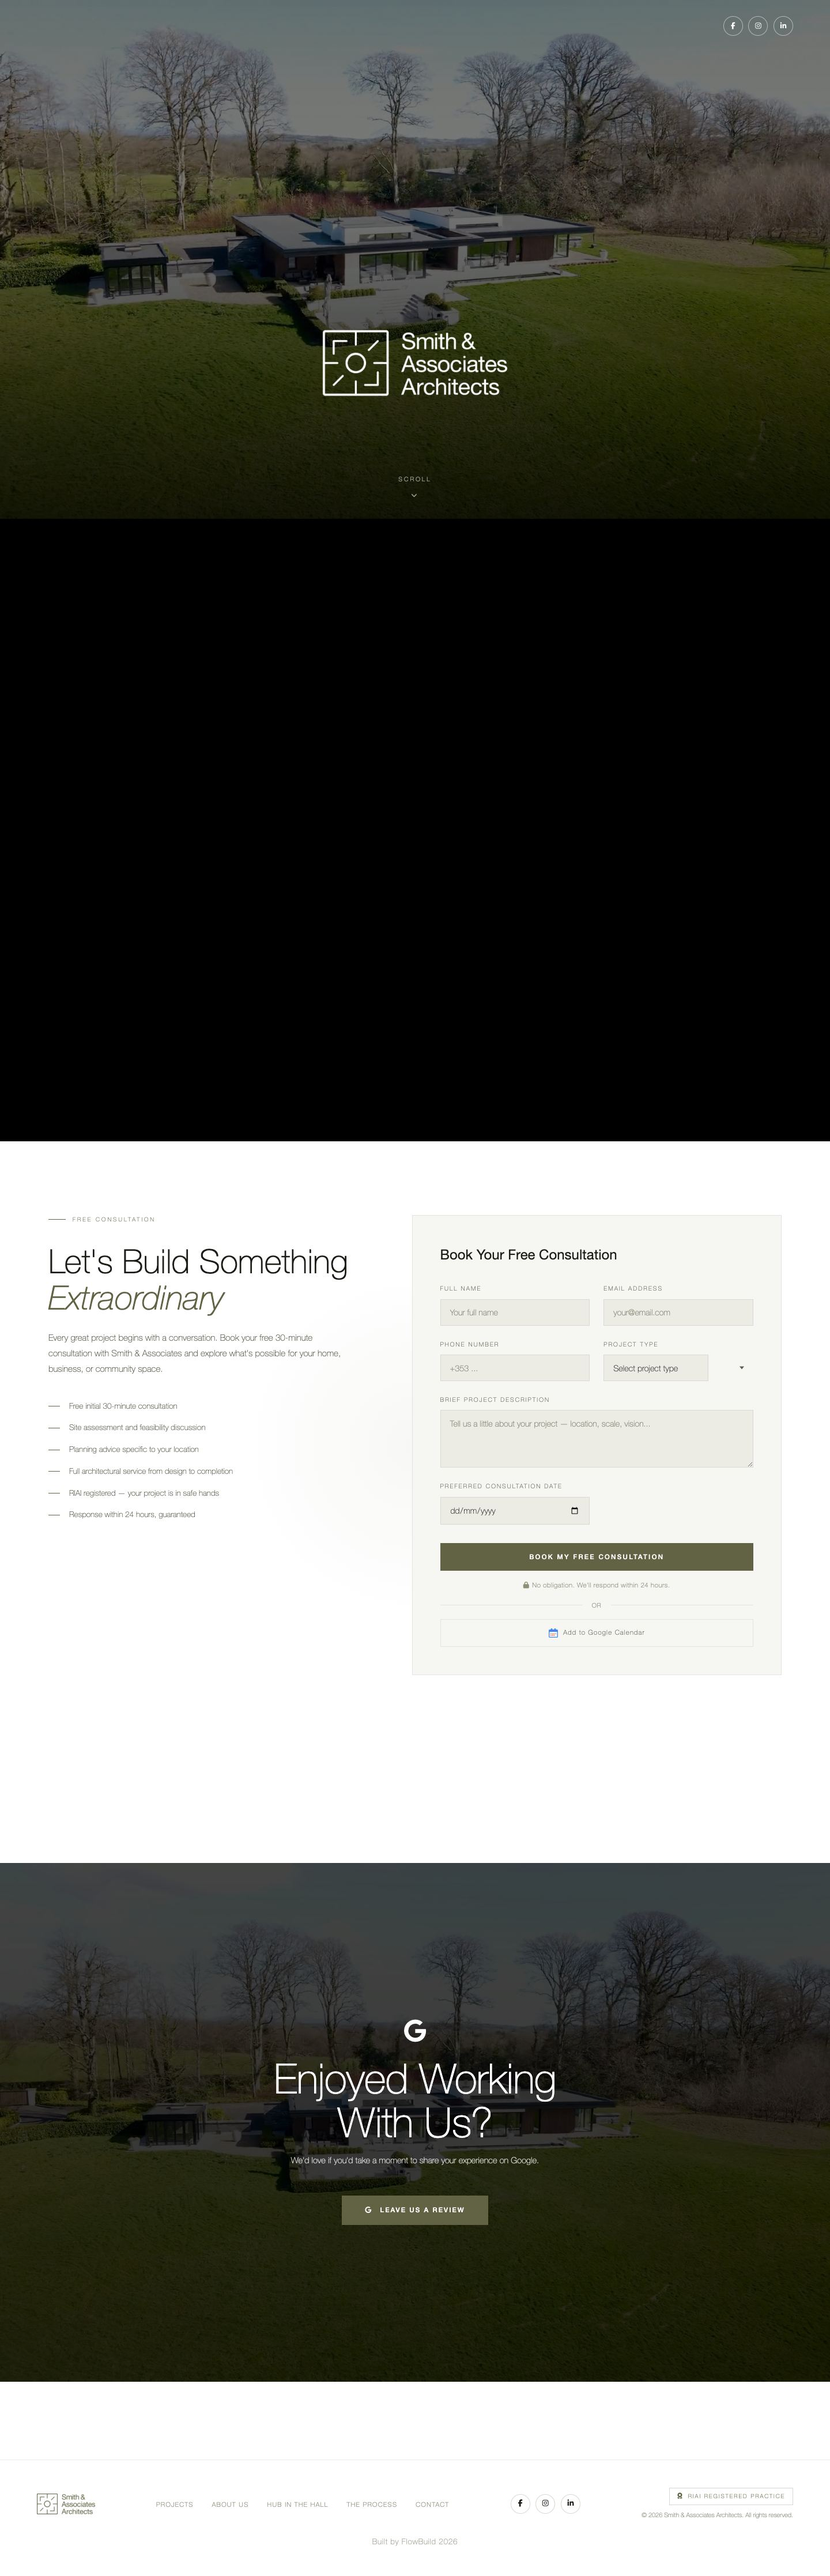
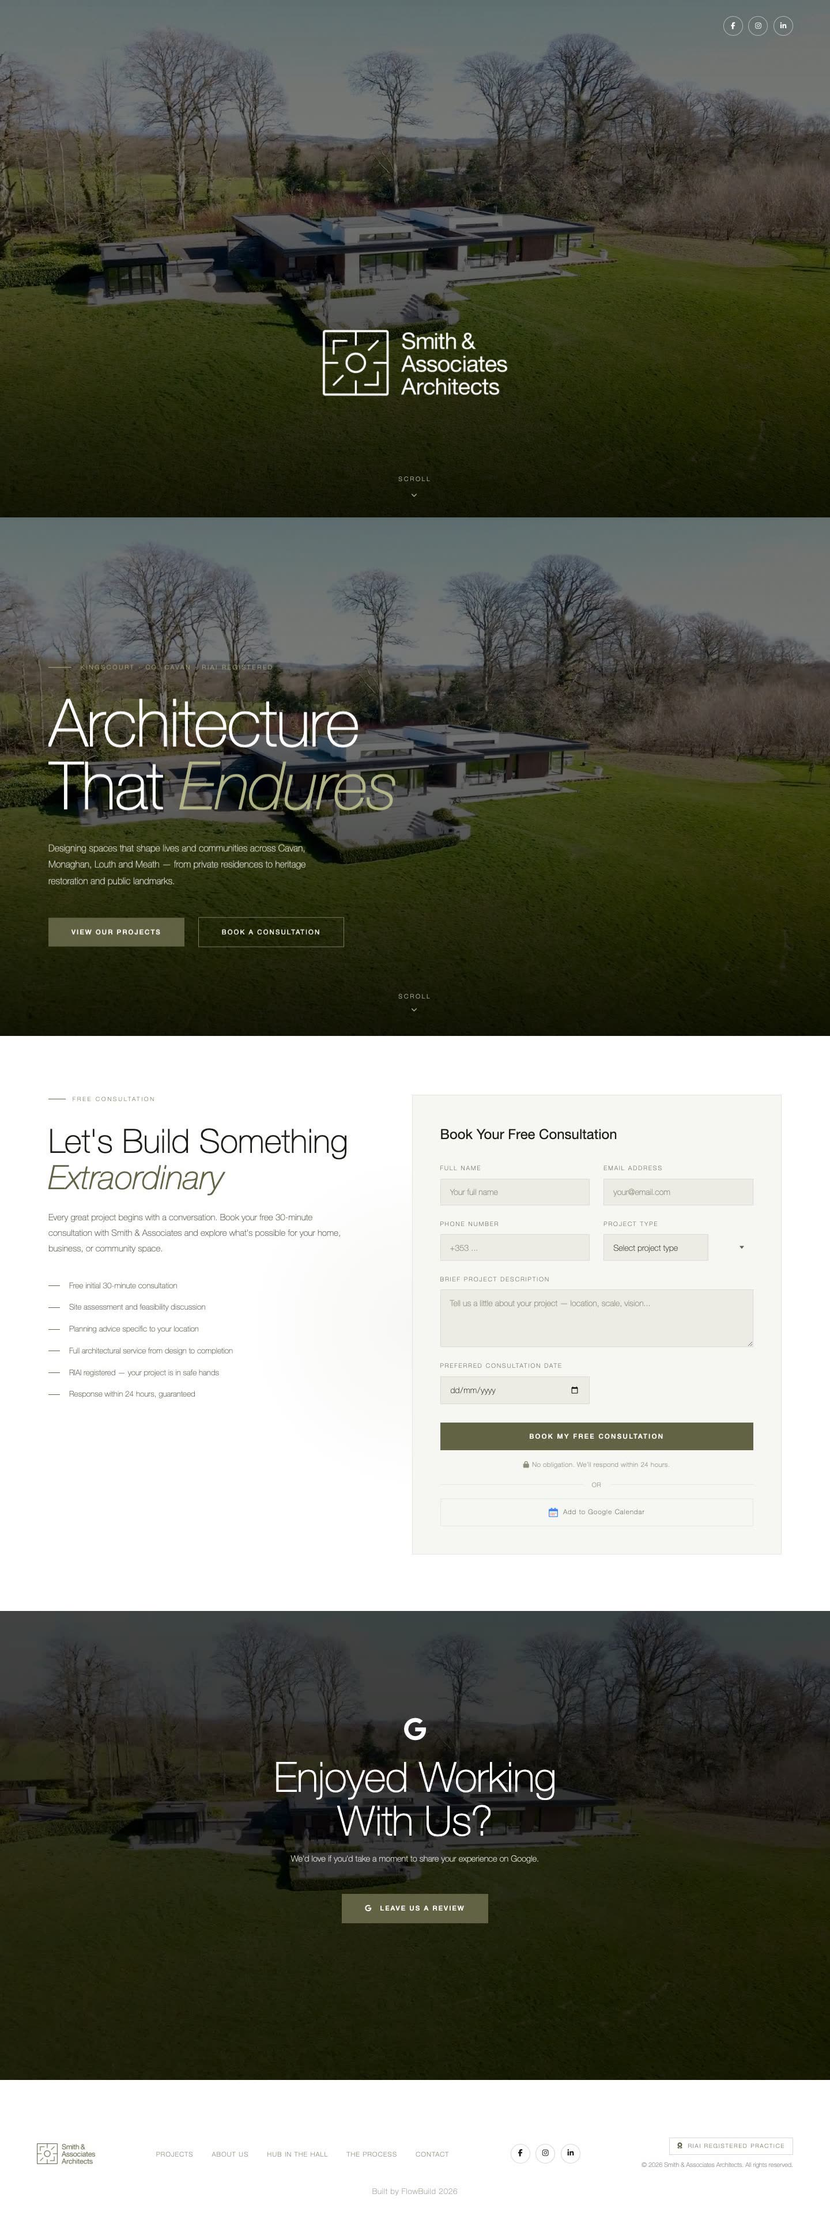
Fix the SA Architects capture: fill the void left by pinned sections
That card had a 1081px black band through its middle and never showed the
"Architecture That Endures" screen at all.

saarchitects.ie drives its layout with GSAP ScrollTrigger pinning
(pin-wrap / pin-wrap-auto). Pinned content is positioned by transform and
only exists at a given scroll offset, so a flat full-page capture renders
the pin spacer as empty space — the screen that should occupy it is
simply absent. GSAP is bundled rather than on window, so the triggers
could not be disabled before capturing.

The missing screen is instead captured from a real viewport render at the
scroll offset where it is pinned, then spliced in place of the void.
Residual pin-spacer gaps (one dark 1081px band, three uniform bands of
127/412/184px) are trimmed back to a 100px margin, so the card no longer
scrolls through dead space. Height 4469 -> 3860px, 404KB.

Verified: no uniform band over 120px anywhere in the capture; all four
cards still hold on their hero then scrub, one at a time, no errors.

diff --git a/web-design/index.html b/web-design/index.html
@@ -770,7 +770,7 @@
         <div class="prev-live">
           <span class="prev-live-tag"><span class="prev-live-dot"></span>Live</span>
           <div class="prev-track">
-            <img class="prev-reel" src="screenshots/smith-associates-arch-full.jpg" alt="SA Architects website, full page" width="1440" height="4469" loading="lazy" decoding="async">
+            <img class="prev-reel" src="screenshots/smith-associates-arch-full.jpg" alt="SA Architects website, full page" width="1440" height="3860" loading="lazy" decoding="async">
             <div class="prev-heroblk" data-top="0" data-vh="900">
               <video class="prev-vid" src="video/sa-architects.mp4" muted loop playsinline preload="none" aria-hidden="true" tabindex="-1"></video>
               <img class="prev-hero" src="screenshots/sa-architects-hero.webp" alt="" aria-hidden="true" loading="lazy" decoding="async">
